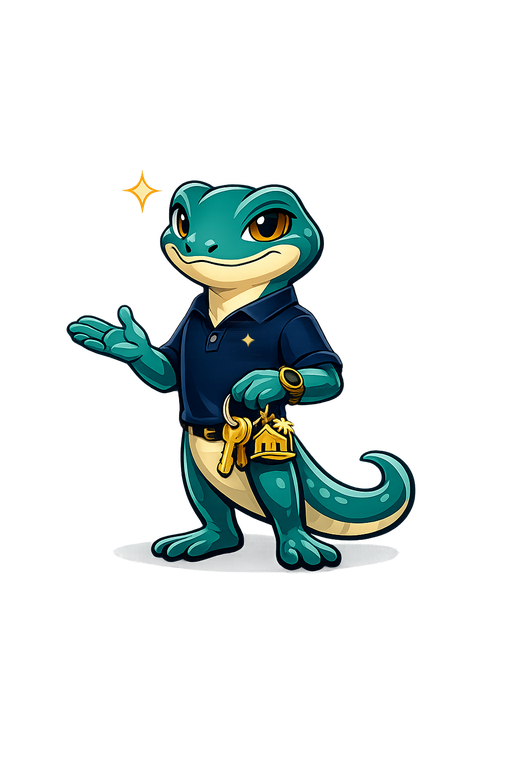
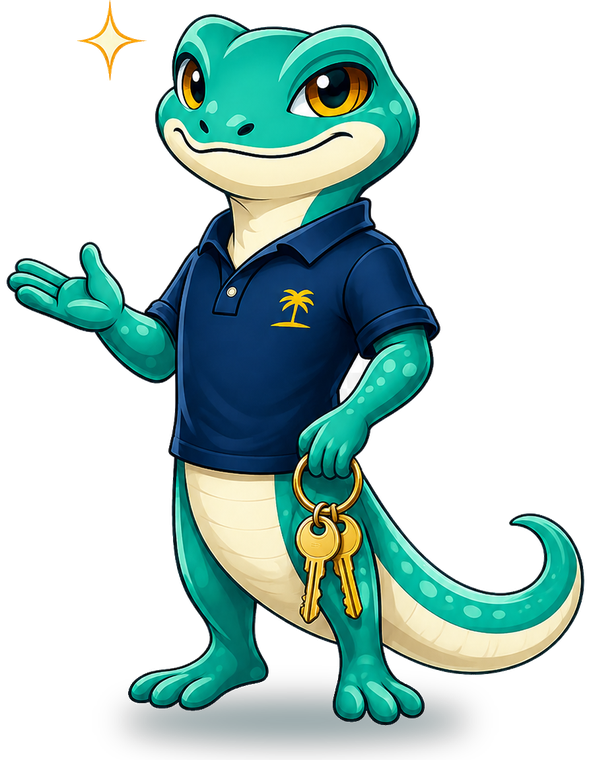
feat(keycare): nouvelle mascotte gecko (polo + clés) + ombre, taille hero ajustée
- mascot.png : nouveau gecko détouré (fond transparent) avec ombre de contact rebakée
- .hero-mascot redimensionné à 150px (desktop) / 115px (mobile)

diff --git a/keycare/assets/styles.css b/keycare/assets/styles.css
@@ -132,11 +132,11 @@ a:focus-visible, .btn:focus-visible, button:focus-visible { outline-offset: 3px;
   padding: 6px; border: 1px solid var(--line);
 }
 .hero-mascot {
-  position: absolute; top: 0; right: -10px; width: 210px; height: auto;
+  position: absolute; top: 0; right: -10px; width: 150px; height: auto;
   transform: translateY(-70%); pointer-events: none;
 }
 @media (max-width: 920px) {
-  .hero-mascot { width: 150px; right: 6px; transform: translateY(-62%); }
+  .hero-mascot { width: 115px; right: 6px; transform: translateY(-62%); }
 }
 .hero-card-inner { padding: 24px; }
 .hero-card h3 { font-size: 1.3rem; color: var(--teal-900); }